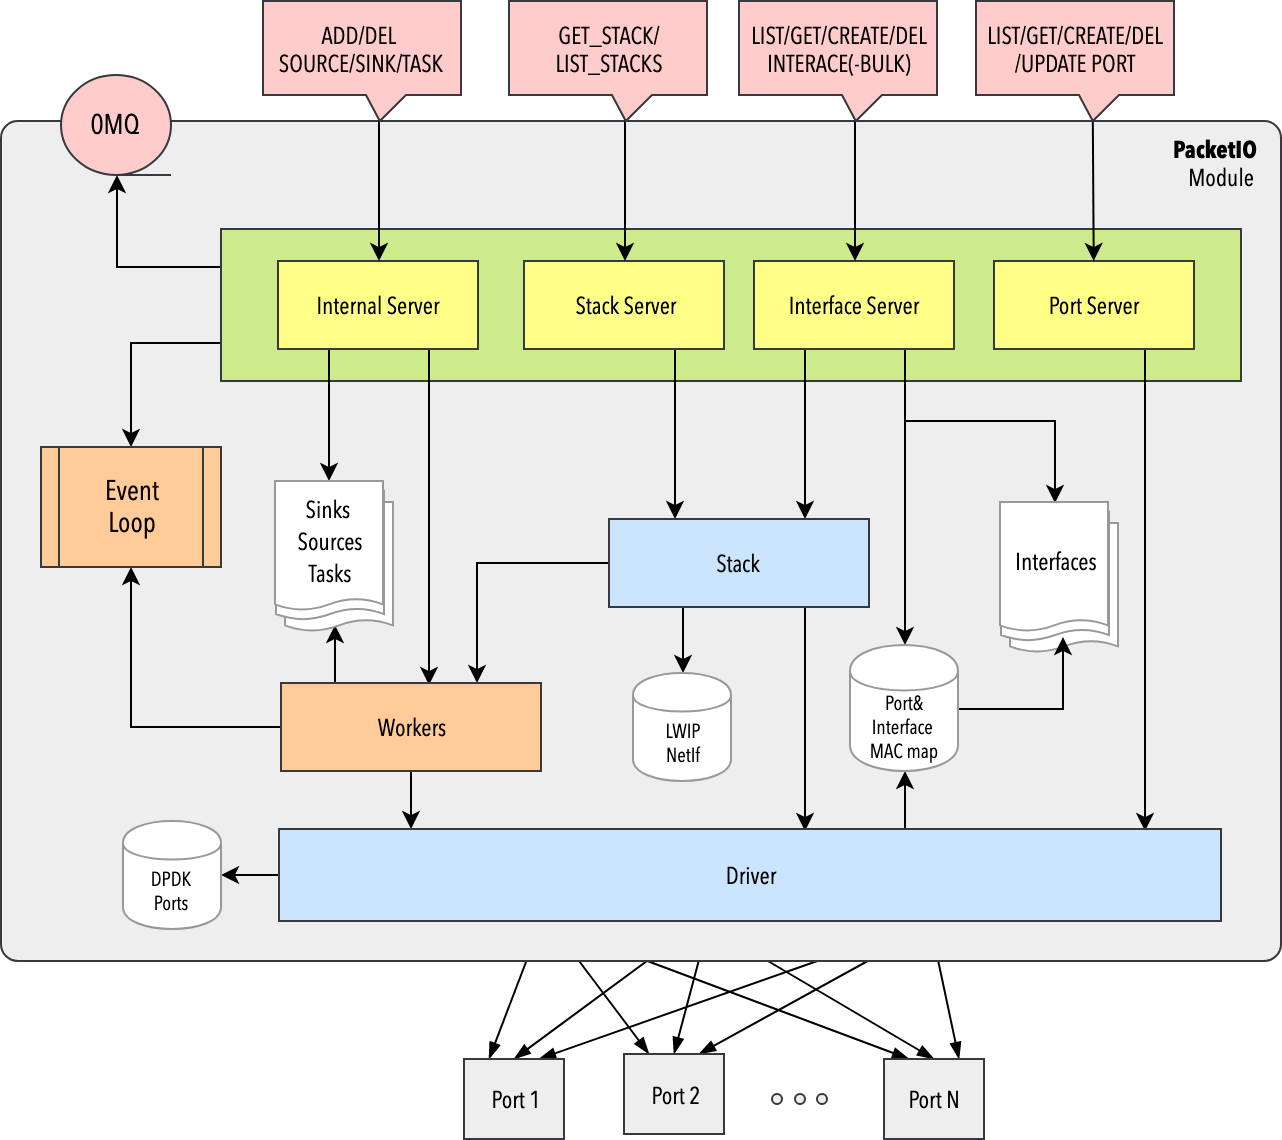
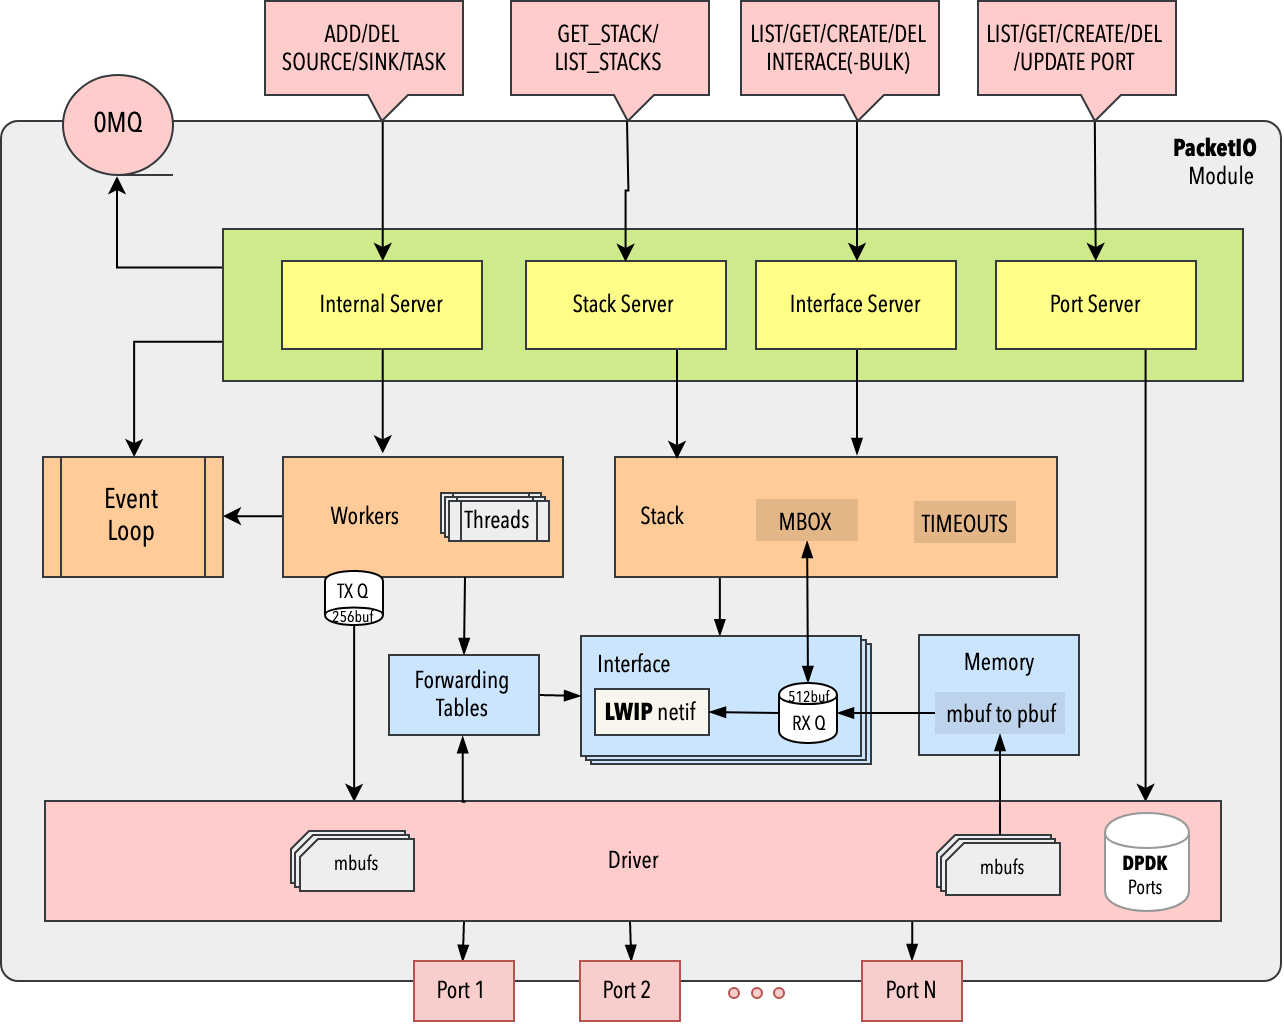
developper guide: packet IO module

diff --git a/doc/dev-guide/module-packetio.md b/doc/dev-guide/module-packetio.md
@@ -154,3 +154,131 @@ The `interface_map` is defined as `immer::map<net::mac_address, Interface*>`.
 > The immer `map` provides a good trade-off between cache locality, search, update performance and structural sharing. It does so by storing the data in contiguous chunks of 2^B elements. When storing big objects, the size of these contiguous chunks can become too big, damaging performance. If this is measured to be problematic for a specific use-case, it can be solved by using a immer::box to wrap the type T.
 
 > B default value is 5, therefore chunks can handle 32 elements. Storting 1M interfaces would require 31K chunks.
+
+# Packet IO - Receving Packets (at interface level)
+
+
+Once a packet is received by DPDK, it goes through the `rx_interace_dispach`, which associates the right interface from the packet mac address. If there is a matching interface, it eventually runs the `net_interface_rx`, which calls one either the `queueing` or `direct` buffering implementation:
+
+```C++
+err_t direct::handle_rx(pbuf* p, netif* netintf)
+{
+    return (ethernet_input(p, netintf));
+}
+```
+
+The `direct` implementation justs calls `ethernet_input`, which is a _LWIP_ method. The `queueing` is slightly more complex, but in short, uses a _DPDK_ ring to keep track of the buffers, and eventually calls the `ethernet_input` _LWIP_ method.
+
+
+```C++
+err_t queueing::handle_rx(pbuf* p, netif* netintf)
+{
+    if (rte_ring_enqueue(m_queue.get(), p) != 0) {
+        /* Queue is full ... */
+        return (ERR_BUF);
+    }
+    if (!m_notify.test_and_set(std::memory_order_acquire)) {
+        tcpip_inpkt(p, netintf, net_interface_rx_notify);
+    }
+    return (ERR_OK);
+}
+
+err_t queueing::handle_rx_notify(netif* netintf)
+{
+    static constexpr size_t rx_burst_size = 32;
+    std::array<pbuf*, rx_burst_size> pbufs;
+
+    do {
+        auto nb_pbufs = rte_ring_dequeue_burst(m_queue.get(),(pbufs.data(), rx_burst_size, nullptr);
+
+        for (size_t i = 0; i < nb_pbufs; i++) ethernet_input(pbufs[i], netintf);
+
+    } while (!rte_ring_empty(m_queue.get()));
+
+    m_notify.clear(std::memory_order_release);
+    return (ERR_OK);
+}
+```
+
+What is interresting to note is that the `tcpip_inpkt` implementation is overriden. In the original implementation, `tcpip_inpkt` accesses the TCPIP _mbox_ as a global variable `static sys_mbox_t tcpip_mbox;`. For Incpetion, it uses the in-function declaration `auto tcpip_mbox = icp::packetio::tcpip::mbox();` 
+
+
+```C++
+sys_mbox_t icp::packetio::tcpip::mbox()
+{
+    return (icp::packetio::dpdk::tcpip_mbox::instance().get());
+}
+```
+
+The explanation can be found in the `lwip.cpp` file:
+
+> lwIP uses a global sys_mbox_t to allow communication between
+> clients and the stack thread.  We initialize this object here and
+> de-initialize it in our destructor.  This coupling is necessary to
+> allow the process to cleanly shut down.  Luckily, client functions
+> check for a valid mbox object before using it.  But if we don't
+> invalidate it, they can block on a callback waiting for a response
+< from our non-existent stack tasks.
+
+
+# Packet IO - Sending Packets (at interface level)
+
+The `net_interface_dpdk_init` is reponsible for setting the LWIP stack output and linking it to the DPDK driver.
+
+```C++
+static err_t net_interface_dpdk_init(netif* netif)
+{
+    net_interface *ifp = reinterpret_cast<net_interface*>(netif->state);
+
+    rte_eth_dev_get_mtu(ifp->port_index(), &netif->mtu);
+
+    auto info = model::port_info(ifp->port_index());
+    netif->chksum_flags = (to_checksum_check_flags(info.rx_offloads()) | to_checksum_gen_flags(info.tx_offloads()));
+
+    ...
+    netif->linkoutput = net_interface_tx;
+    netif->output = etharp_output;
+    ...
+}
+```
+
+The `linkoutput` function is called by ethernet_output() when it wants to send a packet on the interface. This function outputs the pbuf as-is on the link medium. While the `output` function is called by the IP module when it wants to send a packet on the interface. This function typically first resolves the hardware address, then sends the packet. For ethernet physical layer, this is usually etharp_output()
+
+
+The `net_interface_tx` (_link output_) is (_code simplified below_)  passing the incoming packet to the `net_interface` implementation.
+
+```C++
+static err_t net_interface_tx(netif* netif, pbuf *p)
+{
+    net_interface *ifp = reinterpret_cast<net_interface*>(netif->state);
+    return ifp->handle_tx(p);
+}
+```
+
+The `handle_tx` handles the convertion from pbuf (from LWIP) to mbuf (DPDK) using the method `packetio_memory_mbuf_synchronize`. The `rte_mbuf_refcnt_update` is needed for bumping the reference count on the mbuf chain before transmitting, since, when the `handle_tx` function returns, the stack will free the pbuf chain.
+
+```C++
+err_t net_interface::handle_tx(struct pbuf* p)
+{
+    /*
+     *      */
+    auto m_head = packetio_memory_mbuf_synchronize(p);
+    for (auto m = m_head; m != nullptr; m = m->next) rte_mbuf_refcnt_update(m, 1);
+
+    /* Setup tx offload metadata if offloads are enabled. */
+    if (~m_netif.chksum_flags & netif_tx_chksum_mask) {
+        set_tx_offload_metadata(m_head, m_netif.mtu);
+    }
+
+    return (m_transmit(port_index(), 0, reinterpret_cast<void**>(m_head), 1) == 1 ? ERR_OK : ERR_BUF);
+}
+```
+
+The mbuf/pbuf allocation scheme is very smart, and relying on the _headroom_ capability from the DPDK mbuf, as shown below:
+
+![mbuf-pbuf](../images/mbuf-pbuf-memory-structure.png)
+
+
+The `m_transmit` corresponds to the worker `get_transmit_function`, which comes with two implementation: `direct` and `queued`. The _direct_ implementation eventually calls the `rte_eth_tx_burst` DPDK function.  The _queued_ implementation uses a DPDK ring of 256 elements.
+
+In the case the driver is based on `net_ring`, the buffer needs to be copied... That's because of the portion of the mbuf private area to used store the lwip pbuf: The net_ring driver hands transmitted packets directly to another port, which could cause after-free bugs (_more explanations needed_).
